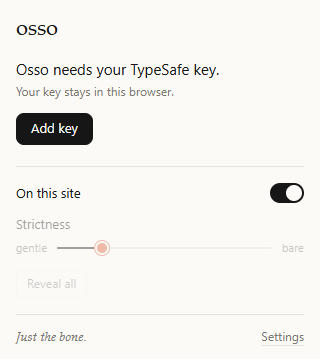
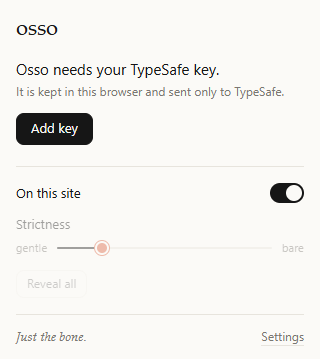
Osso: what the Chrome Web Store audit asked for
- The manifest's description is the store summary, and the store refuses
  one over 132 characters: it is now the planned summary, 128.
- The key is described as it really travels: kept in this browser and
  sent only to api.typesafe.ai, with each request. Options no longer says
  "nothing is logged anywhere", which Osso cannot vouch for at TypeSafe.
- The welcome's consent says that every page is read as it loads unless
  the reader chooses Only when I click, before they agree.
- Options has a Remove key: without a key nothing can be sent, so it
  takes the agreement back.
- PRIVACY.md says the key goes with each request, what TypeSafe sees of
  a request, what is handled only on the page, and how to stop.
- A test holds PRIVACY.md's promise that no request, for a page, a rule
  or a highlight, carries the page's address.
- The store notes: no TypeSafe key for the reviewers (TypeSafe's terms
  make keys confidential credentials), test instructions that say so,
  keep and highlight in the listing, the data boxes the privacy policy
  implies, accurate permission justifications, homepage and support.

Changed region(s): [[0.0312, 0.2451, 0.875, 0.2758]]

diff --git a/src/ui/options/index.ts b/src/ui/options/index.ts
@@ -36,6 +36,7 @@ const ui = {
   keySave: el<HTMLButtonElement>("key-save"),
   keyResult: el<HTMLParagraphElement>("key-result"),
   keySaved: el<HTMLSpanElement>("key-saved"),
+  keyRemove: el<HTMLButtonElement>("key-remove"),
   enabled: el<HTMLInputElement>("enabled"),
   threshold: el<HTMLInputElement>("threshold"),
   thresholdValue: el<HTMLOutputElement>("threshold-value"),
@@ -167,6 +168,7 @@ function parseHosts(text: string): string[] {
 
 function renderSettings() {
   ui.key.value = settings.apiKey;
+  ui.keyRemove.hidden = !settings.apiKey;
   ui.enabled.checked = settings.enabled;
   ui.threshold.value = String(settings.threshold);
   renderThreshold();
@@ -273,12 +275,24 @@ async function saveKey() {
   if (settings.apiKeyInvalid) ui.keyResult.textContent = "";
   const ok = await save({ apiKey }, ui.keySaved);
   settings.apiKeyInvalid = false;
+  if (ok) ui.keyRemove.hidden = !apiKey;
   if (firstKey && ok) {
     // The first key is the whole setup: say what happens next, since nothing else on this page will.
     ui.notice.hidden = true;
     ui.keyResult.textContent = "Saved. Open any article and it fades in a second or two; pages already open pick the key up too.";
     ui.keyResult.className = "key-result ok";
   }
+}
+
+/** Taking the agreement back: without a key nothing can be sent, so removing it stops Osso on every page. */
+async function removeKey() {
+  ui.key.value = "";
+  const ok = await save({ apiKey: "" }, ui.keySaved);
+  if (!ok) return;
+  settings.apiKeyInvalid = false;
+  ui.keyRemove.hidden = true;
+  ui.keyResult.textContent = "Key removed. Nothing is sent until a key is agreed to and saved again.";
+  ui.keyResult.className = "key-result ok";
 }
 
 // ---- usage ----------------------------------------------------------------
@@ -321,6 +335,7 @@ function wire() {
   ui.keyEye.addEventListener("click", toggleEye);
   ui.keyTest.addEventListener("click", () => void testKey());
   ui.keySave.addEventListener("click", () => void saveKey());
+  ui.keyRemove.addEventListener("click", () => void removeKey());
   // Saving is agreeing to what the words above the field say is sent: Enter takes the reader to the
   // button that says so, and only pressing it saves.
   ui.key.addEventListener("keydown", (e) => {

diff --git a/src/ui/options/index.html b/src/ui/options/index.html
@@ -22,10 +22,11 @@
           <p class="privacy" id="consent">
             When Osso reads a page, it sends the page's title, its language and the words the page displays, with any
             words you ask it to keep or highlight, to api.typesafe.ai only, over your key, to judge which sentences are
-            filler. Never the page's address, and never what you type into a page. Osso does not read a page showing a
-            password or card field, and holds back on pages that look private; those checks catch the usual shapes, not
-            every one. The key is stored in this browser and used by the background worker alone: pages never see it.
-            Nothing is logged anywhere.
+            filler. Never the page's address, and never what you type into a page. Which pages it reads is set under
+            <em>Read pages</em> below. Osso does not read a page showing a password or card field, and holds back on pages
+            that look private; those checks catch the usual shapes, not every one. Your key is kept in this browser, where
+            only Osso's background worker uses it (pages never see it), and is sent only to api.typesafe.ai, with each
+            request. Past answers are kept under a fingerprint of the text, without the text or the address.
           </p>
           <label class="field-label" for="key">TypeSafe API key</label>
           <div class="keyrow">
@@ -39,6 +40,7 @@
           <p class="key-result" id="key-result" aria-live="polite"></p>
           <p class="hint">
             <a href="https://typesafe.ai" target="_blank" rel="noopener">Get a key at typesafe.ai</a>
+            <button class="text-btn" id="key-remove" type="button" hidden>Remove key</button>
             <span class="saved" id="key-saved">Saved</span>
           </p>
         </div>

diff --git a/test/api.test.ts b/test/api.test.ts
@@ -256,6 +256,27 @@ describe("judgePage", () => {
     expect(fetchImpl).not.toHaveBeenCalled();
   });
 
+  it("never puts the page's address in a request, for the page, a rule or a highlight", async () => {
+    // PRIVACY.md states it as true by construction; this is the construction.
+    const secret: PageMeta = { ...meta, url: "https://intranet.secret-host.example/private/path?token=abc123", host: "intranet.secret-host.example" };
+    const req: JudgeRequest = { meta: secret, packId: "recipe", contentHash: "abc", sentences: sents(6) };
+    const sent: string[] = [];
+    const fetchImpl = vi.fn(async (url: RequestInfo | URL, init?: RequestInit) => {
+      sent.push(`${String(url)} ${JSON.stringify(init?.headers)} ${String(init?.body)}`);
+      return reply(401, { error: "bad key" });
+    });
+    const opts = { apiKey: "sk-test", maxSentencesPerRequest: 60, fetchImpl: fetchImpl as unknown as typeof fetch, sleep: noSleep };
+    await judgePage(req, recipePack, opts).catch(() => undefined);
+    await judgeRules(req, recipePack, ["prices"], opts).catch(() => undefined);
+    await judgeHighlights(req, recipePack, ["ingredients"], opts).catch(() => undefined);
+    expect(sent.length).toBeGreaterThanOrEqual(3);
+    for (const s of sent) {
+      expect(s).not.toContain("secret-host");
+      expect(s).not.toContain("/private/path");
+      expect(s).not.toContain("token=abc123");
+    }
+  });
+
   it("judges one chunk: right URL, headers, page kind, tokens, timing", async () => {
     const fetchImpl = vi.fn(async (_url: RequestInfo | URL, init?: RequestInit) => okReply(init, 1234));
     const onChunk = vi.fn();

diff --git a/src/ui/welcome/index.html b/src/ui/welcome/index.html
@@ -28,7 +28,9 @@
           <p class="consent" id="consent">
             When Osso reads a page, it sends the page's title, its language and the words the page displays, with any
             words you ask it to keep or highlight, to api.typesafe.ai only, over your key, to judge which sentences are
-            filler. Never the page's address, and never what you type into a page. The key stays in this browser.
+            filler. Never the page's address, and never what you type into a page. It reads every page you open, as it
+            loads, unless you choose <em>Only when I click</em> below. Your key is kept in this browser and sent only to
+            api.typesafe.ai, with each request.
           </p>
           <div class="keyrow">
             <input id="apiKey" type="password" placeholder="Paste your key" autocomplete="off" spellcheck="false" aria-label="TypeSafe API key" aria-describedby="consent" />
@@ -43,7 +45,7 @@
             <label class="choice">
               <input type="radio" name="mode" value="auto" checked />
               <span class="choice-title">Every page, as it loads <em class="tag">recommended</em></span>
-              <span class="choice-sub muted">Pages arrive already stripped. About $0.001 a page on your key; a page you have read before is free.</span>
+              <span class="choice-sub muted">Pages arrive already stripped. About $0.001 a page on your key; a page you have read recently is free.</span>
             </label>
             <label class="choice">
               <input type="radio" name="mode" value="click" />

diff --git a/test/ui.test.ts b/test/ui.test.ts
@@ -259,6 +259,7 @@ describe("options", () => {
     expect(text("notice")).toContain("paste a TypeSafe key");
     expect(document.activeElement?.id).toBe("key");
     expect(text("key-result")).toBe("");
+    expect(visible("key-remove")).toBe(false);
 
     input("key").value = "ts-new";
     (document.getElementById("key-save") as HTMLButtonElement).click();
@@ -267,6 +268,19 @@ describe("options", () => {
     expect(visible("notice")).toBe(false);
     expect(text("key-result")).toMatch(/^Saved\. Open any article/);
     expect(document.getElementById("key-result")?.className).toBe("key-result ok");
+    expect(visible("key-remove")).toBe(true);
+  });
+
+  it("takes the key back with Remove key: without it nothing can be sent", async () => {
+    scriptBackground({ ...DEFAULT_SETTINGS, apiKey: "ts-x" }, null);
+    await openOptions();
+    expect(visible("key-remove")).toBe(true);
+    (document.getElementById("key-remove") as HTMLButtonElement).click();
+    await settle();
+    expect(runtimeSend()).toHaveBeenCalledWith({ type: "setSettings", patch: { apiKey: "" } });
+    expect(input("key").value).toBe("");
+    expect(visible("key-remove")).toBe(false);
+    expect(text("key-result")).toMatch(/^Key removed\./);
   });
 
   it("says what is sent before the key field, and only the button that says Agree saves", async () => {

diff --git a/src/ui/popup/index.ts b/src/ui/popup/index.ts
@@ -352,7 +352,7 @@ function draw() {
   }
   if (model.settingsLoaded && (!settings.apiKey || s?.status === "no-key")) {
     show("no-key");
-    note("Osso needs your TypeSafe key.", "Your key stays in this browser.", { label: "Add key", primary: true, onClick: openOptions });
+    note("Osso needs your TypeSafe key.", "It is kept in this browser and sent only to TypeSafe.", { label: "Add key", primary: true, onClick: openOptions });
     return;
   }
   if (model.settingsLoaded && settings.apiKeyInvalid) {

diff --git a/src/ui/options/options.css b/src/ui/options/options.css
@@ -359,6 +359,16 @@ textarea {
   font-size: 13px;
 }
 
+/* Taking the key back: quieter than getting one, there when a key is saved. */
+.hint .text-btn {
+  font: inherit;
+  color: var(--muted);
+}
+
+.hint .text-btn:hover {
+  color: var(--ink);
+}
+
 .privacy {
   font-size: 13px;
   max-width: 56ch;

diff --git a/docs/chrome-web-store.md b/docs/chrome-web-store.md
@@ -1,20 +1,21 @@
 # Chrome Web Store: the listing, and why Osso fits the policies
 
-What to paste into the Developer Dashboard, and the reasoning behind each answer, checked against the [Program Policies](https://developer.chrome.com/docs/webstore/program-policies/policies) and the [Developer Agreement](https://developer.chrome.com/docs/webstore/program-policies/terms) on 2026-09-21, and against the consent and Limited Use rules enforced since 2026-08-01 on 2026-09-26. Policies change: read them again before submitting.
+What to paste into the Developer Dashboard, and the reasoning behind each answer, checked against the [Program Policies](https://developer.chrome.com/docs/webstore/program-policies/policies) and the [Developer Agreement](https://developer.chrome.com/docs/webstore/program-policies/terms) on 2026-09-21, and again in full, with the update enforced since 2026-08-01, on 2026-09-27. Policies change: read them again before submitting.
 
 ## Before submitting
 
-- A developer account: one-time registration fee, **2-Step Verification** on the Google account, and a contact email that will be **public** on the listing (use an address made for it).
-- A **TypeSafe key for the reviewers**, made for that purpose, with a spending limit. Osso does nothing without a key, and an extension the reviewer cannot make work is rejected as broken functionality. It goes in the dashboard's *Test instructions*, never in the package.
-- The zip: `npm run build && npm run zip` → `release/osso-<version>.zip`. It is minified, not obfuscated (the policy allows minification), contains no remote code, and the source is public.
+- A developer account: one-time registration fee, **2-Step Verification** on the Google account, a **verified** contact email that will be **public** on the listing (use an address made for it), a publisher name, and the **trader declaration** (free, non-commercial, from an individual: non-trader).
+- **The repository public.** The privacy policy URL and the listing's source link must open for the reviewers.
+- **No TypeSafe key for the reviewers.** TypeSafe's Master Customer Agreement makes API keys confidential credentials, not to be shared outside one's own staff (sections 2.4 and 14), and Google's Developer Agreement asks not to knowingly break a third party's terms. The test instructions below say why there is no key and show what Osso does; the extension itself says plainly that it needs one.
+- The zip: the one attached to the version's GitHub release (`release.yml`), or `npm run build && npm run zip` → `release/osso-<version>.zip`. It is minified, not obfuscated (the policy allows minification), contains no remote code, and the source is public.
 - Screenshots of **invented pages only** (the e2e fixtures), never of someone else's site or brand.
 
 ## Store listing
 
 **Name** Osso
 
-**Summary** (132 characters max)
-Just the bone. Strikes the filler out of every page you read and leaves what you came for. Needs your own TypeSafe API key.
+**Summary** comes from the manifest's `description` and cannot be edited in the dashboard; over 132 characters, the upload is refused:
+Just the bone. Strikes the filler out of every page you read and leaves what you came for. Needs your own paid TypeSafe API key.
 
 **Description**
 
@@ -26,20 +27,23 @@ Just the bone. Strikes the filler out of every page you read and leaves what you
 >
 > Nothing is hidden, rewritten or summarised: the filler is still there, greyed and struck through, in the author's own words. Hold Shift and it all comes back.
 >
+> KEEP AND HIGHLIGHT
+> Type what you always want kept (prices, deadlines, allergens) and it stays in ink on every page. Type what you want marked (candidate names, ingredients, consequences) and Osso highlights it, like a marker drawn as you read.
+>
 > HOW IT WORKS
 > Osso splits the main text of the page into sentences and asks Jev, a model by TypeSafe, one question about each: is this what the reader came for? Sentences that are not are faded.
 >
 > YOU NEED A TYPESAFE API KEY
-> Osso is free and open source, and it runs on your own TypeSafe key (typesafe.ai). TypeSafe bills usage to your account: a typical page costs about $0.001, a page you have already read costs nothing. Osso does nothing until you have saved a key.
+> Osso is free and open source, and it runs on your own TypeSafe key (typesafe.ai). TypeSafe bills usage to your account: a typical page costs about $0.001, a page you have read recently costs nothing. Osso does nothing until you have saved a key.
 >
 > WHAT IS SENT, AND WHERE
-> To judge a page, Osso sends its title, its language and the words the page displays to api.typesafe.ai over HTTPS, with your key. Never the page's address, and never what you type into a page. Nothing is sent before you agree to it, with the button that saves your key. It does not read pages showing a password or card field, and holds back to ask first on pages that look like an account area, an intranet, or a page hidden from search engines; these checks catch the usual shapes, not every one. At install you choose whether Osso reads every page as it loads or only when you click its icon. Nothing is sent to the developer or to anyone else; there is no account, no server and no analytics. Off by default on a list of well-known mail, document, chat, code, search, video and social sites (editable; other sites are not recognised by name), and one switch turns it off on any site. Where the text itself is private, choose "only when I click".
+> To judge a page, Osso sends its title, its language and the words the page displays, with any words you ask it to keep or highlight, to api.typesafe.ai over HTTPS, with your key. Your key is kept in your browser and sent only to TypeSafe, with each request. Never the page's address, and never what you type into a page. Nothing is sent before you agree to it, with the button that saves your key. It does not read pages showing a password or card field, and holds back to ask first on pages that look like an account area, an intranet, or a page hidden from search engines; these checks catch the usual shapes, not every one. When you add your key, you choose whether Osso reads every page as it loads or only when you click its icon. Nothing is sent to the developer or to anyone else; there is no account with us, no server and no analytics. Off by default on a list of well-known mail, document, chat, code, search, video and social sites (editable; other sites are not recognised by name), and one switch turns it off on any site. Where the text itself is private, choose "only when I click".
 >
 > Source code and privacy statement: https://github.com/Fars29/osso
 >
 > Osso is an independent project, not affiliated with TypeSafe.
 
-**Category** Productivity → Tools (or Accessibility). **Language** English.
+**Category** Productivity → Tools. **Language** English. **Homepage URL** https://github.com/Fars29/osso. **Support URL** https://github.com/Fars29/osso/issues.
 
 **Images**, in [docs/store/](store/) (made from the film's invented pages, with the shipped renderer and popup):
 
@@ -51,16 +55,16 @@ Just the bone. Strikes the filler out of every page you read and leaves what you
 ## Privacy practices tab
 
 **Single purpose**
-Osso fades and strikes through the filler sentences of the web page the user is reading, so that the substantive sentences stand out.
+Osso fades and strikes through the filler sentences of the web page the user is reading, so that the substantive sentences stand out; the user can also name things to always keep in ink, or to highlight, on that page.
 
 **Permission justifications**
 
 | permission | justification |
 |---|---|
 | `storage` | Stores the user's settings, their API key, and a cache of past judgments so a page already read is not judged (or billed) again. |
-| `activeTab` | The keyboard shortcut (Alt+Shift+O) reads the host of the current tab to turn Osso on or off for that site. |
+| `activeTab` | When the user opens the popup or presses the shortcut (Alt+Shift+O), Osso reads which site the current tab is on, to show and switch its state for that site. The address is never sent. |
 | host permission `https://api.typesafe.ai/*` | The one endpoint Osso calls: it sends the page's sentences there and receives a judgment for each. |
-| content script on `http://*/*`, `https://*/*` | The single purpose applies to any page the user reads: the script splits the page's main text into sentences and changes the colour of the ones judged filler. It does not run on the sites in the default deny list, on pages showing a password or card field, or on app-like pages. |
+| content script on `http://*/*`, `https://*/*` | The single purpose applies to any page the user reads: the script splits the page's main text into sentences and changes the colour of the ones judged filler. On the sites in the default deny list, on pages showing a password or card field and on app-like pages it reads nothing and changes nothing; with no key saved, it reads nothing anywhere. |
 
 **Remote code** No. All logic is in the package; the API returns JSON data (probabilities), never code.
 
@@ -68,7 +72,9 @@ Osso fades and strikes through the filler sentences of the web page the user is 
 
 - ☑ **Website content** (the text of the page being read is transmitted to TypeSafe to be judged).
 - ☑ **Web history** (the title of each page read goes with its text, and the form counts a visited page's title as web history; the address is never sent, and Osso keeps no history: the cache is keyed by a hash of the text).
-- ☐ Personally identifiable information, health, financial, authentication, personal communications, location, user activity: not collected.
+- ☑ **Authentication information** (the user's TypeSafe API key: kept in the browser, sent only to TypeSafe, with each request).
+- ☑ **Personal communications** and ☑ **Financial and payment information**: Osso stays off well-known mail sites, leaves card numbers and IBANs out and holds back pages that look like the inside of an account, but PRIVACY.md says plainly that a page these checks miss is read like any other. The form should not say less than the privacy policy.
+- ☐ Personally identifiable information, health, location, user activity: not collected (clicks, hovers and the reveal key are handled on the page, never stored or sent).
 
 **The three certifications** all hold:
 
@@ -80,16 +86,15 @@ Osso fades and strikes through the filler sentences of the web page the user is 
 
 ## Test instructions (for the reviewer)
 
-> 1. After install, a welcome page opens. Paste this key and press "Agree and save key" (it is tested first): `<the reviewers' key>`. Leave "Every page, as it loads" selected.
-> 2. Open any long article, recipe or terms-of-service page (for example a Wikipedia article). Within a second or two the filler sentences turn grey and are struck through.
-> 3. Hold Shift to see everything in ink again; click the toolbar icon for the counts, the strictness slider and the per-site switch.
-> The key is a limited one made for this review.
+In *Additional instructions* (500 characters at most; no username or password):
+
+> Osso needs the user's own TypeSafe API key (typesafe.ai, a paid third-party service). TypeSafe's terms do not let us share ours, so no key is included. Without one, Osso reads nothing and says so: the popup shows "Osso needs your TypeSafe key" and the welcome page asks for one. What it does with a key is shown at the top of https://github.com/Fars29/osso, filmed with Osso's own renderer and popup. With a key: paste it on the welcome page, press "Agree and save key", open any article.
 
 ## How Osso meets each policy
 
 | policy | how |
 |---|---|
-| Single purpose, minimum functionality | One narrow purpose; works on any page of prose. |
+| Single purpose, minimum functionality | One narrow purpose; works on any page of prose. Without a key it reads nothing and says so, in the popup, on the welcome page and in Options: it never fails silently. |
 | Privacy policy | `PRIVACY.md`, linked in the dashboard and from Options → About. Names the one party data is shared with (TypeSafe). |
 | Limited Use | Page text goes only to TypeSafe and only to provide the feature. No ads, no brokers, no analytics, no human reads it on our side: we never receive it. PRIVACY.md says so, with the Limited Use statement, one click from the repository's page. |
 | Web browsing activity | Used only for the user-facing feature, which is described in the listing and in the UI. Consent comes first: the welcome page (and Options) says what is sent above the key field, and the only button that saves the key reads "Agree and save key"; Enter in the field does not save. Nothing is sent before that button is pressed. The welcome then asks the user to choose between reading every page and reading only on a click; in click mode nothing is sent before the user opens Osso on that page. |
@@ -99,10 +104,12 @@ Osso fades and strikes through the filler sentences of the web page the user is 
 | Remotely hosted code, obfuscation | None. Minified by esbuild; source public. |
 | Misleading behaviour | Nothing is hidden or rewritten; every change is a colour and a line, reversible with one key; the listing says a paid third-party key is required. |
 | Payments | Osso takes no payment. The requirement of a paid third-party key is stated in the summary and the description. |
-| Developer Agreement: third parties' terms | Osso calls TypeSafe's public API with the user's own key. TypeSafe's Master Customer Agreement (read 2026-09-21, last updated 2026-09-19) lets a customer include the API in software for its end users (2.2) and forbids offering the Services "as a standalone service" (2.3a): with a key of their own each user is TypeSafe's customer, and Osso resells nothing. It also forbids using the Output to distil or train an imitating model (2.3b): Osso must never be used to label data for a local replacement. Not settled: which agreement governs a self-serve account, and TypeSafe's own guidance says to keep credentials server-side in web apps; an extension's background worker holding the user's own key is a different case, but ask them if in doubt. |
+| Developer Agreement: third parties' terms | Osso calls TypeSafe's public API with the user's own key. TypeSafe's Master Customer Agreement (read 2026-09-21, last updated 2026-09-19) lets a customer include the API in software for its end users (2.2) and forbids offering the Services "as a standalone service" (2.3a): with a key of their own each user is TypeSafe's customer, and Osso resells nothing. It also forbids using the Output to distil or train an imitating model (2.3b): Osso must never be used to label data for a local replacement. It makes API keys confidential credentials (2.4, 14), hence no key for the reviewers. TypeSafe's SDK warns against exposing a key in web pages; Osso keeps each user's own key in the background worker, where pages never see it. |
+| Changes to what is sent | Any future change to what leaves the browser is announced inside the extension, and agreed to again, before it applies. |
 
 ## What can still get it bounced
 
 - **Broad host access** puts every such extension through a longer, manual review (days, sometimes weeks). Expected, not a rejection.
-- A reviewer who cannot make it work: hence the reviewers' key and the test instructions.
+- **A reviewer who cannot see it work** may reject it as "not providing promised functionality" (Yellow Magnesium). The test instructions and the explicit no-key state are the answer; if it happens anyway, reply through the appeal with the same explanation.
+- **A manifest description over 132 characters**: the upload itself is refused, since it is the store summary.
 - A listing that does not say, up front, that a paid key is needed.

diff --git a/PRIVACY.md b/PRIVACY.md
@@ -8,17 +8,18 @@ When Osso reads a page, it sends to `api.typesafe.ai`, over HTTPS:
 
 - the page's title and language, and a short hint of what kind of page it is ("recipe", "terms of service");
 - the page's main text, sentence by sentence;
-- the rules and highlight terms you typed.
+- the rules and highlight terms you typed;
+- your key, with each request: it is how TypeSafe knows the request is yours.
 
 Two things are never sent, whatever the page, because Osso has no code that could send them: **the page's address**, and **anything you type into a page** (form fields and editors are skipped before any text is read).
 
-What TypeSafe does with a request is set by its own [terms](https://typesafe.ai/legal/mca) and [privacy policy](https://typesafe.ai/legal/privacy-policy), under your account with them. As we read them on 2026-09-21: requests are processed in the United States, customer data is not used for training without consent, and no retention period is stated. Check them yourself.
+What TypeSafe does with a request is set by its own [terms](https://typesafe.ai/legal/mca) and [privacy policy](https://typesafe.ai/legal/privacy-policy), under your account with them. As we read them on 2026-09-21: requests are processed in the United States, customer data is not used for training without consent, and no retention period is stated. Check them yourself. Like any server, TypeSafe also sees when each request arrives and the internet address it comes from.
 
 Page text is used for one thing only: judging the page for you. It is not sold, not used for advertising or for credit or lending decisions, and nobody on our side reads it, since it never reaches us. This complies with the [Chrome Web Store User Data Policy](https://developer.chrome.com/docs/webstore/program-policies/policies), including the Limited Use requirements.
 
 ## What stays on your computer
 
-In the browser's storage, on this device only: your key (the script that runs inside web pages never receives it), your settings, a cache of past answers (a score per sentence, filed under a fingerprint of the text, without the text or the address), and usage counters. Options clears the cache and the counters; removing the extension removes all of it.
+In the browser's storage, on this device only: your key (the script that runs inside web pages never receives it), your settings, a cache of past answers (a score per sentence, filed under a fingerprint of the text, without the text or the address), and usage counters. Options clears the cache and the counters; removing the extension removes all of it. Everything else Osso looks at (the page itself, the site's name checked against your lists, the reveal key, your clicks and hovers) is handled on the page and never stored or sent.
 
 ## When Osso reads a page
 
@@ -26,6 +27,8 @@ Never before you agree. The welcome, and Options, say what is sent above the key
 
 - **Every page, as it loads.** Pages arrive already stripped. This relies on the checks below to leave private pages alone.
 - **Only when I click.** Nothing is sent until you open Osso on a page, except on sites you have marked *always*.
+
+To stop, remove your key in Options (nothing can be sent without it), switch Osso off, or switch it off on a site. What was sent before is under TypeSafe's terms.
 
 ## What Osso tries to leave alone
 
@@ -41,9 +44,9 @@ It looks at how a page is built, never at what it talks about:
 ## Permissions
 
 - `storage`: the settings and the cache above.
-- `activeTab`: the shortcut (Alt+Shift+O) reads which site you are on, to switch Osso on or off there.
+- `activeTab`: when you open the popup or press the shortcut (Alt+Shift+O), Osso reads which site the tab is on, to show and switch its state there.
 - `https://api.typesafe.ai/*`: the one place requests go.
-- A content script on `http` and `https` pages: it reads the page's text and colours what it judges filler. It changes nothing else.
+- A content script on `http` and `https` pages: it reads the page's text and colours what it judges filler. It changes nothing else. Without a key, and on the sites and pages it leaves alone, it reads nothing.
 
 ---
 

diff --git a/README.md b/README.md
@@ -44,7 +44,7 @@ Coming to the Chrome Web Store (in review). Until then, two minutes by hand:
 
 Built and tested for Chrome. Other Chromium browsers (Edge, Brave) should work too.
 
-Free and open source, and it runs on a key of your own: no account with us, no server, no tracking. A page costs about $0.001 and one you have read before is free. What is sent and what never is: [PRIVACY.md](PRIVACY.md).
+Free and open source, and it runs on a key of your own: no account with us, no server, no tracking. A page costs about $0.001, and one you have read recently is free. What is sent and what never is: [PRIVACY.md](PRIVACY.md).
 
 ## Using it
 
